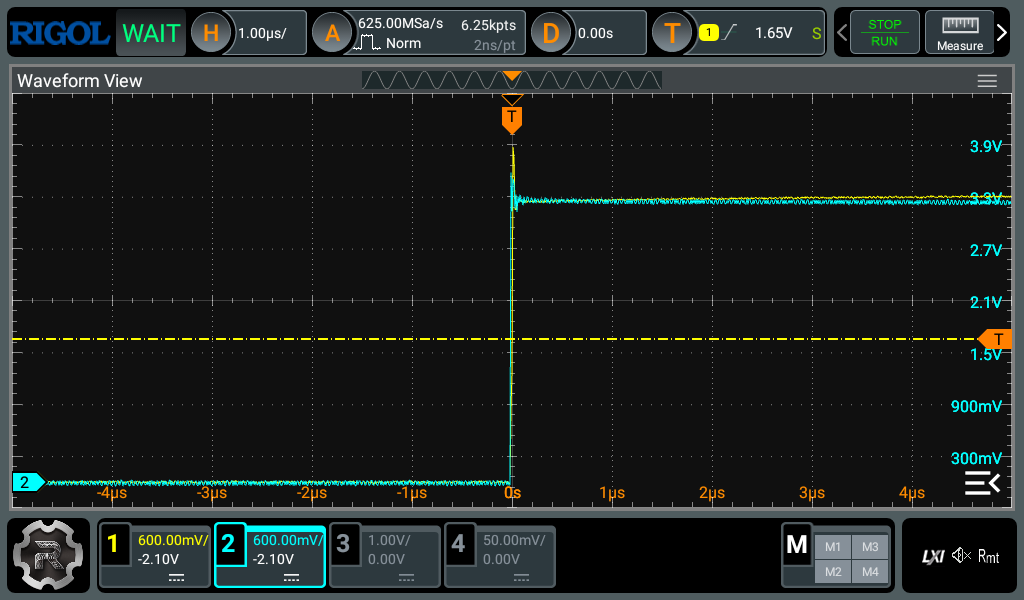
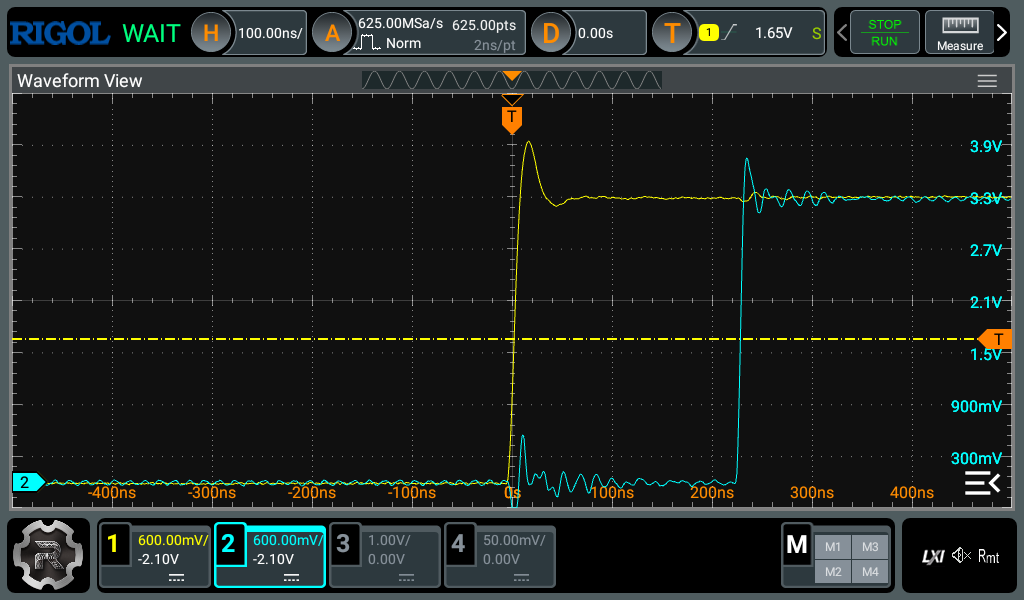
report: 整合後の図を 100ns/div に (オフセットの桁が µs→sub-µs に変わったため)
scope_pps.py の capture に s/div 引数を追加し、整合後 (~0.1µs) の図を 100ns/div で撮り直し。

diff --git a/report/scope_pps.py b/report/scope_pps.py
@@ -199,9 +199,11 @@ CAPTURE_SETUP = [
 ]
 
 
-def cmd_capture(scope, out):
+def cmd_capture(scope, out, timebase_s=None):
     for c in CAPTURE_SETUP:
         scope.send(c)
+    if timebase_s:  # override the default 1 us/div (tighten once the offset is sub-us)
+        scope.send(f":TIMebase:MAIN:SCALe {timebase_s}")
     errs = scope.drain_errors()
     if errs:
         print("scope errors:", errs)
@@ -221,9 +223,13 @@ def main():
                 argv[2] if len(argv) > 2 else None,
             )
         elif sub == "capture":
-            cmd_capture(scope, argv[1] if len(argv) > 1 else "scope-pps.png")
+            cmd_capture(
+                scope,
+                argv[1] if len(argv) > 1 else "scope-pps.png",
+                float(argv[2]) if len(argv) > 2 else None,
+            )
         else:
-            sys.exit("usage: scope_pps.py {phase [N] | capture [out.png]}")
+            sys.exit("usage: scope_pps.py {phase [N] [log] | capture [out.png] [s/div]}")
 
 
 if __name__ == "__main__":
